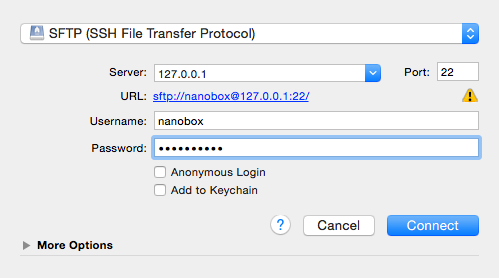
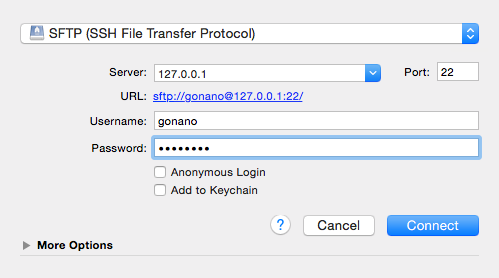
updated storage connection details and images

diff --git a/articles/php/wordpress/data-storage/importing-uploads.md b/articles/php/wordpress/data-storage/importing-uploads.md
@@ -16,7 +16,7 @@ nanobox dev info
 data.storage
   IP      : 192.168.99.74
   User(s) :
-    nanobox - OpAssWoRDX
+    gonano - OpAssWoRDX
 
 # ...
 ```
@@ -28,12 +28,14 @@ Other credentials you may need to establish the connection:
 
 **Port:** `22`
 
+Network directories are housed in the `data` directory in the home directory of your storage component.
+
 #### Copy Files with SCP (Secure Copy)
 ```bash
 # copy the contents of your local uploads folder
 # into to your uploads folder in your storage component
 
-scp -r wp-content/uploads/* nanobox@192.168.99.74:wp-content/uploads
+scp -r wp-content/uploads/* gonano@192.168.99.74:data/wp-content/uploads
 
 # This will prompt for your storage password
 ```
@@ -61,12 +63,14 @@ Connection credentials for the tunnel are provided in your app dashboard under t
 ### Connect with SSH or SFTP
 Use the tunnel-bound port on your local machine and the tunnel credentials provided in your dashboard to connect with SSH or SFTP.
 
+Network directories are housed in the `data` directory in the home directory of your storage component.
+
 #### Copy files with SCP
 ```bash
 # copy files from your local code filesystem
-# into to your storage component at the same path
+# into to your storage component at the data/path
 
-scp -P 22 -r wp-content/uploads/* nanobox@127.0.0.1:wp-content/uploads
+scp -P 22 -r wp-content/uploads/* gonano@127.0.0.1:data/wp-content/uploads
 
 # This will prompt for your storage password
 ```

diff --git a/articles/storage/manage-production.md b/articles/storage/manage-production.md
@@ -16,21 +16,26 @@ Connection credentials for the tunnel are provided in your app dashboard under t
 ## Connect with SSH or SFTP
 Use the tunnel-bound port on your local machine and the tunnel credentials provided in your dashboard to connect with SSH or SFTP.
 
+Network directories are housed in the `data` directory in the home directory of your storage component. Directory paths are relative to the `data` directory.
+
 ### SSH Example
 ```bash
-ssh -p 22 nanobox@127.0.0.1
+ssh -p 22 gonano@127.0.0.1
 # You'll be prompted for the password
+
+# navigate to a network directory
+cd data/path/to/dirA
 ```
 
 ### SCP Examples
 ```bash
 # copy files from your local code filesystem
 # into to your storage component at the same path
-scp -P 22 -r path/to/dirA/* nanobox@127.0.0.1:path/to/dirA
+scp -P 22 -r path/to/dirA/* gonano@127.0.0.1:data/path/to/dirA
 
 # copy files from your storage component
 # into to your local code filesystem
-scp -P 22 -r nanobox@127.0.0.1:path/to/dirA/* path/to/dirA
+scp -P 22 -r gonano@127.0.0.1:data/path/to/dirA/* path/to/dirA
 
 # Both commands will prompt for the password
 ```

diff --git a/articles/storage/manage-local.md b/articles/storage/manage-local.md
@@ -11,7 +11,7 @@ nanobox dev info
 data.storage
   IP      : 192.168.99.74
   User(s) :
-    nanobox - OpAssWoRDX
+    gonano - OpAssWoRDX
 
 # ...
 ```
@@ -23,21 +23,26 @@ Other credentials you may need to establish the connection:
 
 **Port:** `22`
 
+Network directories are housed in the `data` directory in the home directory of your storage component. Directory paths are relative to the `data` directory.
+
 ### SSH Example
 ```bash
-ssh nanobox@192.168.99.74
+ssh gonano@192.168.99.74
 # You'll be prompted for the password
+
+# navigate to a network directory
+cd data/path/to/dirA
 ```
 
 ### SCP Examples
 ```bash
 # copy files from your local code filesystem
 # into to your storage component at the same path
-scp -r path/to/dirA/* nanobox@192.168.99.74:path/to/dirA
+scp -r path/to/dirA/* gonano@192.168.99.74:data/path/to/dirA
 
 # copy files from your storage component
 # into to your local code filesystem
-scp -r nanobox@192.168.99.74:path/to/dirA/* path/to/dirA
+scp -r gonano@192.168.99.74:data/path/to/dirA/* path/to/dirA
 
 # Both commands will prompt for the password
 ```
